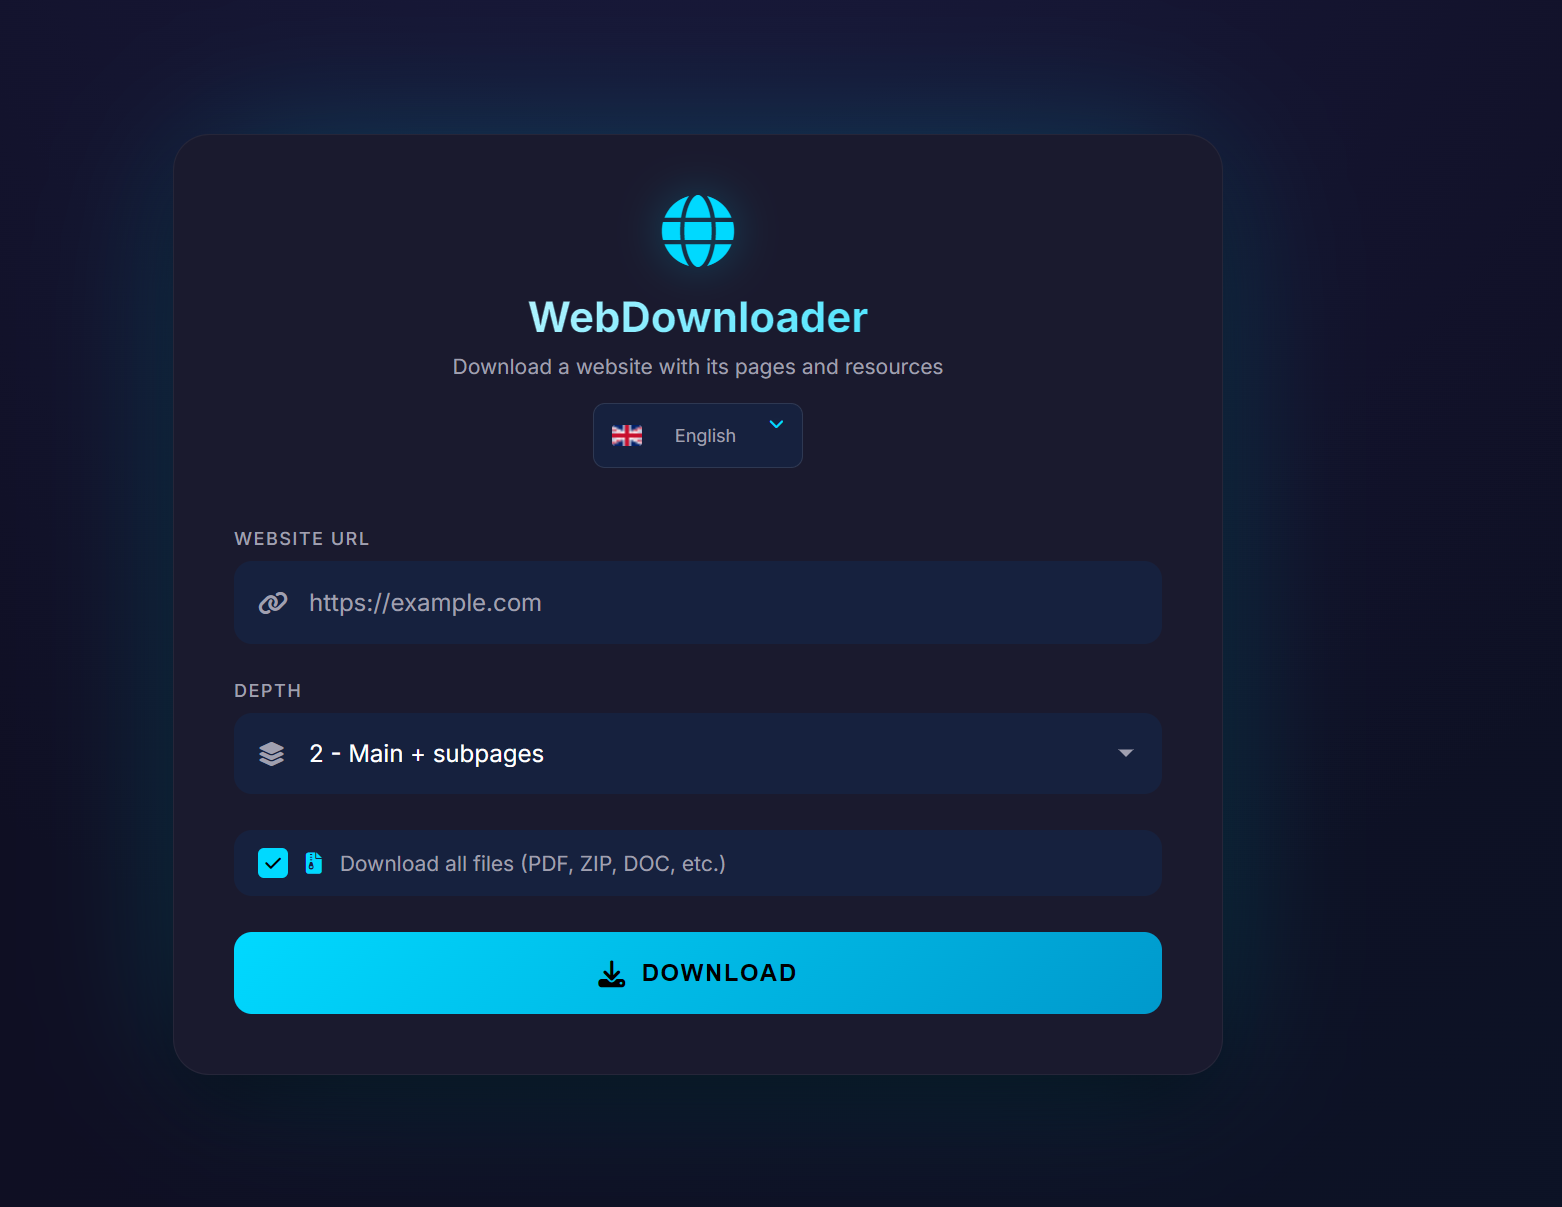
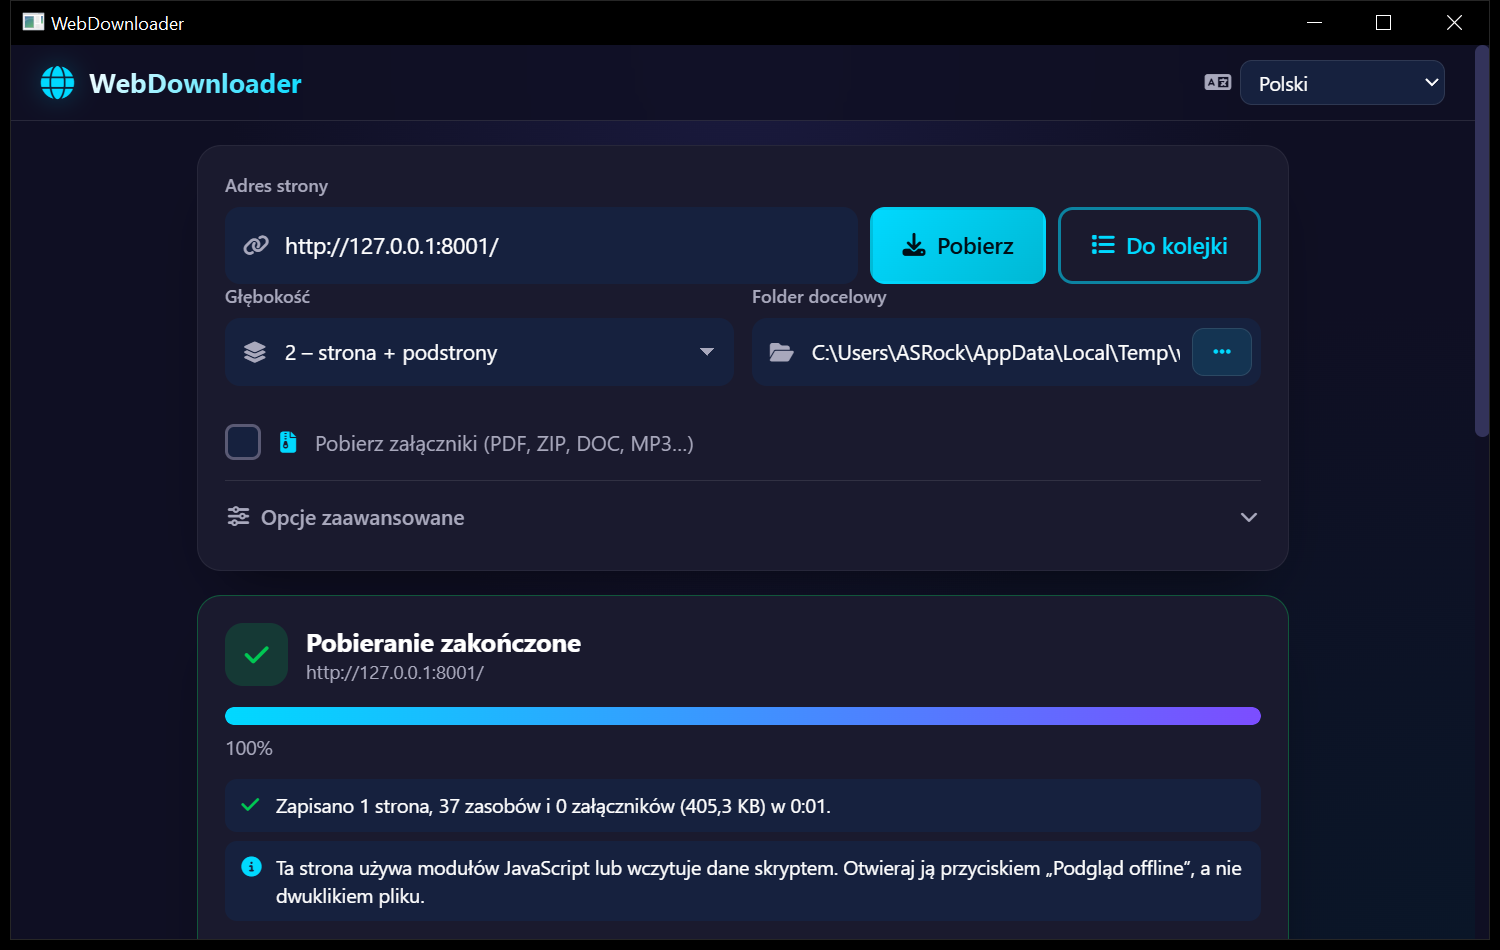
Docs: engine comparison and decision, new download behaviour, screenshot

diff --git a/README.md b/README.md
@@ -13,16 +13,26 @@ in Go. No Node.js or Electron is required.
 
 - Recursive page download with configurable depth (1 = start page only,
   2 = start page + pages it links to, … up to 5)
-- Automatic asset downloading (images, CSS, JS, video posters, …)
-- Optional attachment download (PDF, ZIP, DOC, … — 25 extensions)
-- Multi-language UI (30+ languages, auto-detected)
-- Live progress (pages, assets, attachments) and rolling log
-- Native folder picker + "Open output folder" button
-- Fully embedded frontend with no runtime CDN dependencies
-- Confirmed cleanup of downloaded folders from history
+- Two modes: **Fast** (plain HTTP; reads JS modules, import maps and paths in
+  JS/JSON files) and **Accurate** (renders every page in a hidden browser and
+  saves everything it loads) — see [docs/engines.md](docs/engines.md)
+- Accurate mode uses the **WebView2 runtime the app already needs**; Edge or
+  Chrome are only fallbacks
+- **Offline preview**: serves a downloaded site on `127.0.0.1` so ES modules
+  and `fetch()` work (browsers block them on `file://`)
+- Optional attachment download (PDF, ZIP, DOC, MP3, … — off by default)
+- Clear results: a failure is shown as a failure with a plain-language reason
+  and *Try again*; warnings for failed files and skipped CDN hosts
+- Live progress: percentage, speed, elapsed time, ETA, queue, current file
+- Downloading a site again updates the existing copy (or creates `_v2`, by
+  choice)
+- Delete from history moves the folder to the Recycle Bin (size shown first)
 - Resume from history: continues in the same folder and skips files that
   are already complete
-- Single-file portable executable
+- Keyboard and screen-reader friendly controls; 30+ UI languages
+- Fully embedded frontend with no runtime CDN dependencies
+- Single-file portable executable (`--portable` keeps everything, including
+  the WebView2 profile, next to the EXE)
 
 ## Requirements
 
@@ -79,9 +89,30 @@ runs the download engine from the command line without the UI (exit code
 ## Download behaviour
 
 - **Output layout.** Pages are saved as `path/index.html`; assets keep their
-  server path. Query strings are dropped for static files
-  (`logo.png?v=3` → `logo.png`) and kept for dynamic or extension-less URLs
+  server path. Query strings are dropped from static file names
+  (`logo.png?v=3` → `logo.png`; references keep `?v=3`, so an ES module keeps
+  one identity) and kept for dynamic or extension-less URLs
   (`img.php?id=1` → `img__id_1.php`), capped at 64 characters plus a hash.
+- **Fast mode and scripts.** Import maps are parsed (targets downloaded,
+  values rewritten); scripts are scanned for `import … from`, `export … from`,
+  `import()` and `new URL('…', import.meta.url)` (resolved against the script)
+  and for `fetch('…')`, `new Worker('…')` and path-like string literals such
+  as `"wojna_er/index.html"` or `'data/games.json'` (resolved against the
+  page; `.html` ones are crawled as pages). JSON files are scanned for
+  path-like strings too. Paths built at run time (`'themes/' + name + '.css'`,
+  template literals with `${…}`) cannot be found this way — use the accurate
+  mode. Guessed URLs that do not exist are skipped silently (max. 3000).
+- **Accurate mode.** Every page is opened in a hidden browser; all responses
+  (modules, JSON, lazy images, fonts) are saved, links created by scripts are
+  followed, and the original HTML is saved (not the script-modified DOM,
+  which would render twice offline). Partial (206) media bodies are skipped.
+- **Opening offline.** Sites that use ES modules or `fetch()` only work over
+  HTTP: use *Offline preview* (a server on `127.0.0.1` with a random port,
+  only for folders in history). The result says when a site needs it.
+- **External hosts.** CDN files are skipped unless *Download resources from
+  CDNs* is on; the result lists how many references were skipped and where.
+- **Existing copies.** Downloading a site again updates the existing folder
+  (every file is fetched again) unless *Create a new copy* is chosen.
   File names come from the URL, not from `Content-Disposition`, so links in
   the mirror can be rewritten before a file is fetched.
 - **Path safety.** URL paths containing `..`, Windows-reserved names
@@ -101,9 +132,11 @@ runs the download engine from the command line without the UI (exit code
   HTTP 408, 429 and 5xx are retried twice with exponential back-off
   (0.5 s, 1 s), honouring `Retry-After` up to 10 s. Up to 10 redirects are
   followed; a pasted cookie is only sent to the starting origin.
-- **Errors.** Failed pages, assets and attachments are listed in the UI log,
-  `download-errors.log` and `download-report.json` inside the output folder.
-- **Concurrency.** Pages are crawled one at a time, with a 0.5 s pause
+- **Errors.** If the start page cannot be saved the run is reported as
+  failed with a classified reason (HTTP status, DNS, refused, timeout, TLS,
+  missing browser) and no empty folder is left behind. Other failed files
+  are listed in the UI log, `download-errors.log` and `download-report.json`.
+- **Concurrency.** Pages are crawled one at a time, with a 0.25 s pause
   between pages to be polite to the server.
 
 ## Layout
@@ -126,10 +159,16 @@ runs the download engine from the command line without the UI (exit code
 ├── internal/
 │   ├── downloader/
 │   │   ├── fetcher.go       # HTTP client (redirects, UA, timeout)
+│   │   ├── browser.go       # accurate mode: CDP network capture
+│   │   ├── jsrefs.go        # JS / JSON / import map reference scanner
 │   │   ├── html.go          # goquery-based HTML parsing & rewriting
+│   │   ├── css.go           # url() / @import rewriting
 │   │   ├── path.go          # URL → on-disk path mapping and validation
 │   │   ├── storage.go       # atomic, root-confined file writes
+│   │   ├── errors.go        # failure classification for the UI
 │   │   └── downloader.go    # BFS orchestrator + event callbacks
+│   ├── wv2host/             # hidden private WebView2 with a DevTools port
+│   ├── preview/             # offline preview server (127.0.0.1)
 │   ├── locale/
 │   │   └── locale.go        # system UI language detection
 │   └── webui/
@@ -144,7 +183,9 @@ runs the download engine from the command line without the UI (exit code
 │   └── images/              # README and documentation images
 ├── tools/
 │   ├── examples/            # standalone usage examples
+│   ├── enginebench/         # measures a run (time, browser memory, files)
 │   └── i18n/                # translation maintenance scripts
+├── third_party/webview_go/  # webview_go + one-line profile-folder patch
 ├── build.bat                # builds webdownloader.exe
 └── go.mod
 ```
@@ -157,7 +198,11 @@ webdownloader.exe [--debug] [--portable]
 
 - `--debug` — enable the webview DevTools (right-click → Inspect). Useful
   for tweaking the front-end; not needed by end users.
-- `--portable` — store preferences, logs, and downloads next to the EXE.
+- `--portable` — store preferences, logs, downloads and the WebView2
+  browser profile (`webview2-profile\`) next to the EXE.
+
+`WEBDOWNLOADER_BROWSER` (environment) points the Edge/Chrome fallback of the
+accurate mode at a specific browser executable.
 
 ## How it works
 
@@ -168,9 +213,11 @@ webdownloader.exe [--debug] [--portable]
    `api_cancel`, `api_pause`, `api_resume`, `api_pickFolder`,
    `api_openFolder`, `api_openFile`, `api_revealPath`, `api_getLocale`,
    `api_defaultOutputPath`, `api_savePrefs`, `api_loadPrefs`,
-   `api_deleteFolder`, `api_deleteHistoryItem`, `api_i18n`). Paths passed to the
-   open/delete calls are validated in Go (only directories / `.html`,
-   `.json`, `.log` files; only recorded download folders can be deleted).
+   `api_deleteFolder`, `api_deleteHistoryItem`, `api_folderInfo`,
+   `api_startPreview`, `api_engines`, `api_i18n`). Paths passed to the
+   open/delete/preview calls are validated in Go (only directories / `.html`,
+   `.json`, `.log` files; only recorded download folders can be deleted or
+   previewed; a running download cannot be deleted).
 3. `api_download` spawns a goroutine that runs the BFS crawl, emitting
    `progress`, `asset`, `error` and `complete` events back to the UI
    via `webview.Dispatch + Eval`.

diff --git a/docs/engines.md b/docs/engines.md
@@ -1,0 +1,49 @@
+# Rendering engines for the accurate mode
+
+The accurate mode opens every page in a real browser engine, records all
+network responses through the Chrome DevTools Protocol (`Network.*` events +
+`Network.getResponseBody`) and saves them at their mirror paths. Which
+browser does the rendering is a separate choice; the capture code is shared.
+
+## Options evaluated (November 2026, Windows 10 22H2)
+
+| | (a) system Edge via CDP | (b) app's WebView2 runtime | (c) Lightpanda | (d) installed Chrome via CDP |
+|---|---|---|---|---|
+| Works on the test PC | **no** – Edge was uninstalled (only an `Installer` folder left) | **yes** | **no** – no Windows build (Linux/macOS only) | yes |
+| Extra dependency | Edge browser | none (the UI already requires WebView2) | binary download, WSL | Chrome |
+| Start-up | – | ~1.0 s | – | ~1 s |
+| Peak private memory, 15 pages | – | **170 MB** | – | 344 MB |
+| Desktop site, depth 2 | – | 1 page, 119 files, 2.8 s | – | 1 page, 119 files, 2.6 s |
+| snakex21, depth 3 | – | 95 pages, 4.6 MB, 118 s | – | 95 pages, 4.6 MB, 124 s |
+| Licence | proprietary, not redistributed | proprietary, part of Windows / Evergreen runtime | AGPL-3.0 | proprietary, not redistributed |
+| Risk | Edge is removable and missing on some systems | uses the runtime's `CreateWebViewEnvironmentWithOptionsInternal` entry point (the same one webview_go's loader calls) | – | Chrome often missing |
+
+(a) and (d) run the same code with a different executable; WebView2 157 is
+the same Chromium as Edge 157, so (a) would behave like (b).
+
+Launching `msedgewebview2.exe` directly as a headless browser does not work
+(it exits immediately without its host), so (b) hosts a real, hidden WebView2
+controller instead: `internal/wv2host` creates a private environment in a
+temporary profile with `--remote-debugging-port=0` (an options COM object
+implemented in Go), reads the port from `DevToolsActivePort` and lets chromedp
+attach to the existing page target. It runs in its own browser process, so
+the app's UI and its bindings are never reachable over that port.
+
+## Decision
+
+**Auto = WebView2 → Edge → Chrome.** WebView2 is always present wherever the
+app starts, uses half the memory of Chrome, and gives identical results.
+Edge/Chrome remain as fallbacks (also selectable in the advanced options;
+`WEBDOWNLOADER_BROWSER` can point at a specific executable).
+
+## Offline completeness (served by the offline preview, all non-local hosts blocked)
+
+| Copy | Desktop site (ES modules, import map, fetch JSON) | snakex21 games (linked only from `games-data.js`) |
+|---|---|---|
+| 2.0 fast | blank page, 10 module 404s | 0 of 25 game pages |
+| 2.0 accurate (rendered DOM only) | frozen snapshot, modules 404, nothing opens | games saved (DOM links); hub saved pre-rendered |
+| 2.1 fast | desktop works, windows open; `data/*.json` missing (built as `` `data/${name}.json` ``), start menu partial | 25 of 25; 2048, Wojna Er, Tetris, Snake play |
+| 2.1 accurate (WebView2) | everything works; only 48 px program icons that load when a window opens are missing | 25 of 25; same games play |
+
+Measured with `tools/enginebench` (time, files, browser memory) and a
+headless-Chrome check of the copies (404s, exceptions, interaction probes).
